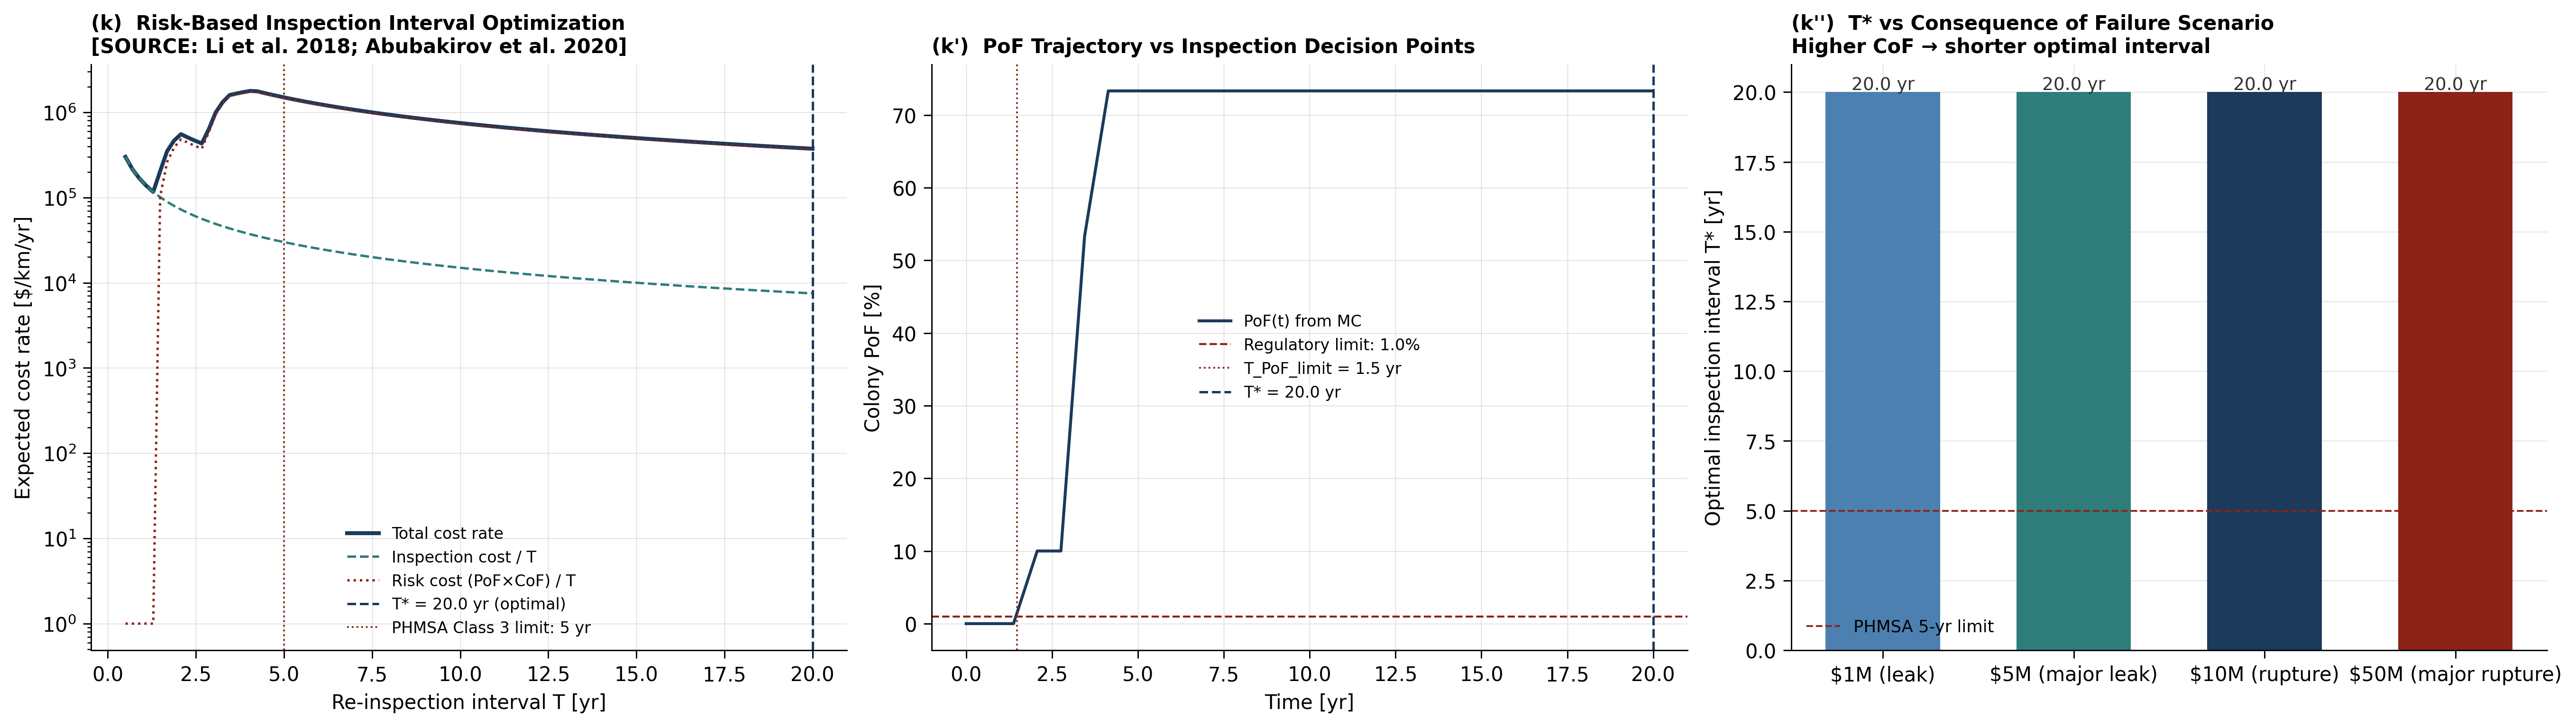
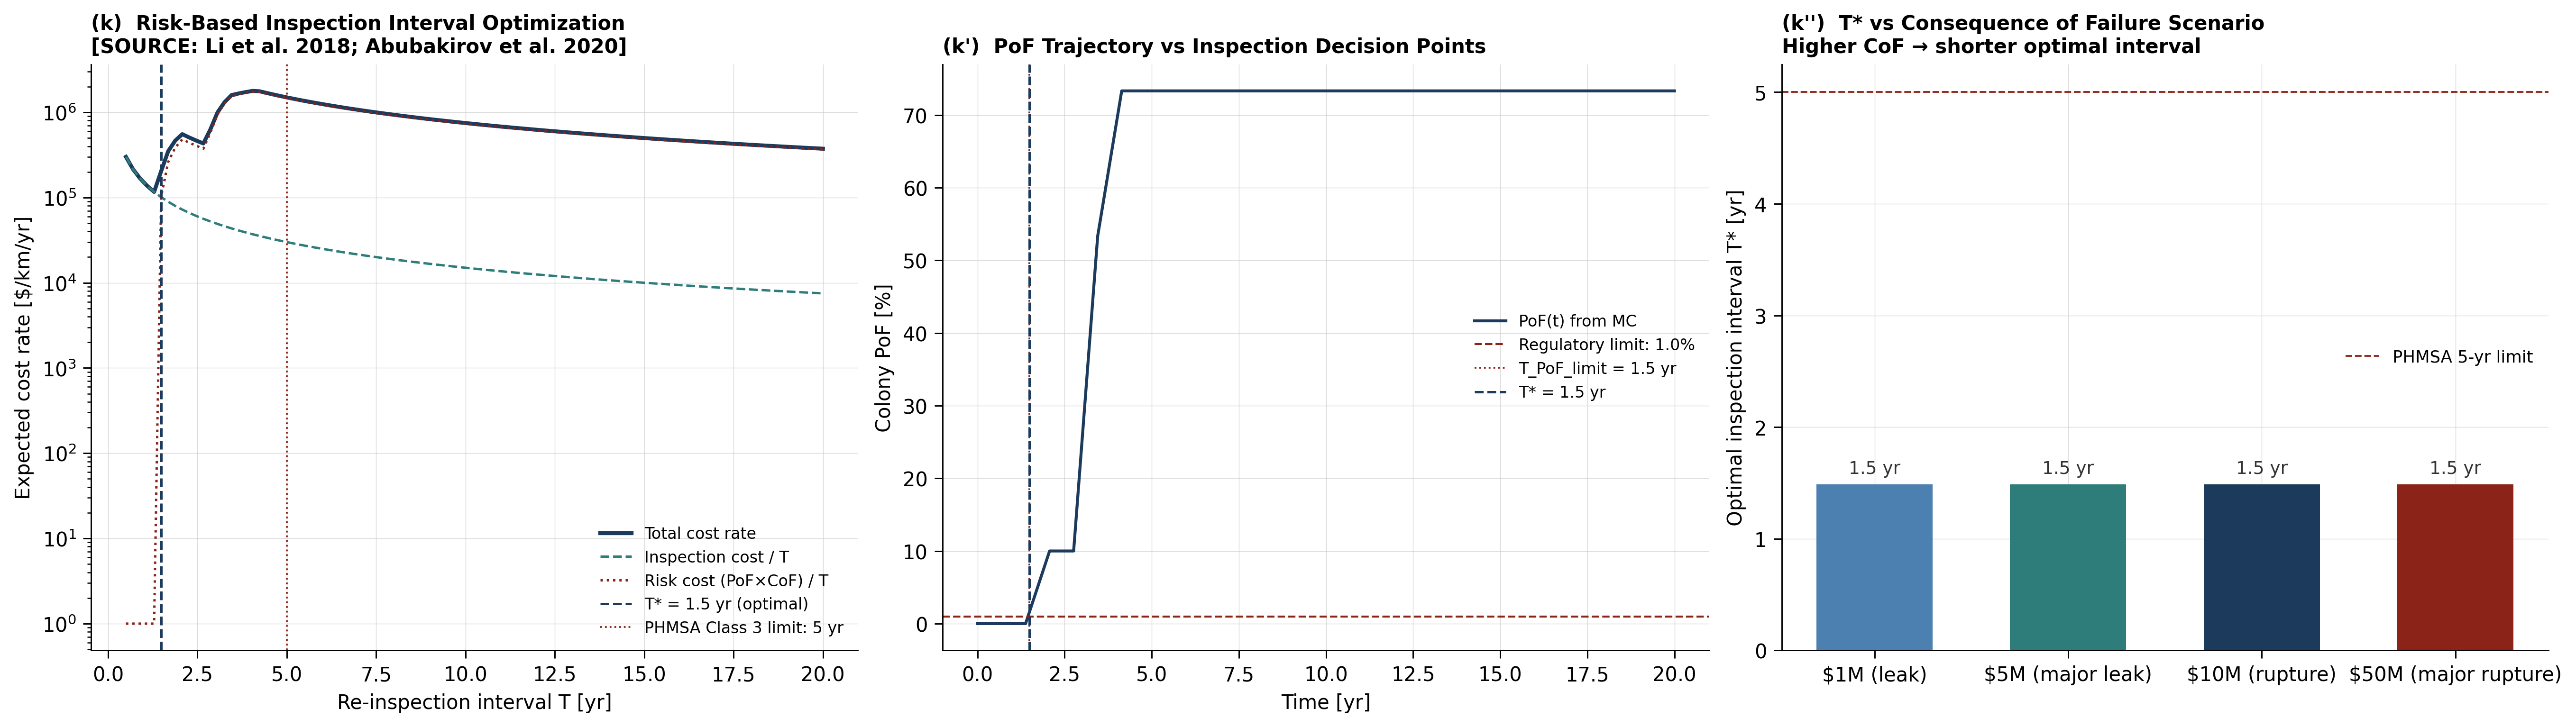
docs+fix: sync docs to corrected physics + RBI / minor-ripple cleanup
- README, equations.html, paper.md, .zenodo.json, CHANGELOG: update to the
  remediated physics (215 tests, dormancy K_max>=K_IH reproducing Zhao ~95%,
  leak/Folias-collapse/K_IC limit state, non-monotonic CP -750 mV optimum, Cui
  2024 H2 K_IH cascade). Fix F_INT=10 citation-laundering (it is [ASSUMED] from a
  tertiary source, not the Chen 2007 journal) in README + equations.html.
- inspection_optimizer: cap the RBI interval by T_pof_limit so a fast-rising PoF
  no longer pushes T* to T_max (was T*=20yr with a 1.5yr PoF limit; now T*=1.5yr).
- pressure_spectrum: remove the dead minor-ripple expression (it collapsed to
  P_max); minor-cycle dK is governed by R_minor, made explicit. Behaviour-identical.
- run_all: relabel the colony metric as a damage fraction (headline PoF is the MC);
  tests count 205->215. Regenerated panel_k.

215 tests pass.

diff --git a/equations.html b/equations.html
@@ -314,7 +314,7 @@ $$
 \frac{da}{dt} \;=\; f_{\text{major}}\,\Bigl(\tfrac{da}{dN}\Bigr)_{\text{major}}
 \;+\; f_{\text{minor}}\,\Bigl(\tfrac{da}{dN}\Bigr)_{\text{minor}}\,F_{\text{INT}}
 $$
-$F_{\text{INT}} = 10$ for Type I underload (Chen 2007). Downstream of compressor stations, this term produces ~10× the CGR of mid-pipe constant-amplitude loading.
+$F_{\text{INT}} = 10$ <strong>[ASSUMED]</strong> for Type I underload. The underload-interaction effect is described qualitatively by Chen (2007); the exact multiplier used here is an assumed value from a secondary source and is <strong>not</strong> read from that journal. Downstream of compressor stations, this term produces ~10× the CGR of mid-pipe constant-amplitude loading.
 <p>Code: <span class="code-ref">src/pressure_spectrum.py → da_dt_variable_amplitude</span>.</p>
 </div>
 
@@ -333,12 +333,13 @@ $$
 
 <h3>4.1 Stage I → Stage II transition criterion</h3>
 <div class="eq-card">
-A crack is dormant (Stage I, slow dissolution only) unless BOTH:
+A flaw is active (Stage II) if and only if BOTH conditions hold; otherwise it is dormant (Stage I, slow dissolution only):
 $$
-\Delta K \;\ge\; \Delta K_{th}^{\,\text{Stage II}} = 2.2\;\text{MPa}\sqrt{\text{m}}
+K_{\max} \;\ge\; K_{IH} = 25\;\text{MPa}\sqrt{\text{m}}
 \quad\text{AND}\quad
 C_H^{\,\text{tip}} \;\ge\; C_H^{\,\text{crit, Stage II}}
 $$
+A base-metal flaw only reaches $K_{IH}$ near ~5 mm depth, so sub-millimetre flaws sit below the threshold and remain dormant. Running a sub-mm colony returns ~95–100 % dormant, reproducing Zhao et al. (2017)'s >95 %-below-1 mm result.
 <p class="src">SOURCE: Zhao et al. (2017) — >95 % of NNpHSCC cracks remain below 1 mm and never transition to Stage II; Shirazi et al. (2024) on dissolution-rate saturation.</p>
 <p>Code: <span class="code-ref">src/crack_growth.py → crack_is_dormant</span>.</p>
 </div>
@@ -468,6 +469,21 @@ $$
 <p>Code: <span class="code-ref">src/fad_assessment.py → maop_comparison</span>; constants <span class="code-ref">F_B31_8_CL2, F_B31_8_CL3, HDF_B31_12</span>.</p>
 </div>
 
+<h3>7.3 Flaw failure limit state</h3>
+<div class="eq-card">
+A growing flaw is treated as critical (end of life) when ANY of the following is met:
+$$
+a \;\ge\; 0.80\,t \;\;\text{(through-wall leak)}
+\quad\text{OR}\quad
+\sigma_{\text{ref}} \;\ge\; \frac{\sigma_{\text{flow}}}{M_T} \;\;\text{(net-section plastic collapse)}
+\quad\text{OR}\quad
+K_I \;\ge\; K_{IC}
+$$
+where $M_T$ is the Folias bulging (surface-correction) factor for an axial flaw, which grows with flaw length $c$. $K_{IH}$ is the <strong>onset</strong> threshold for environmental cracking (Section 4.1), <strong>not</strong> a rupture criterion. A coalesced (long) flaw reaches plastic collapse at a shallower depth than an isolated flaw.
+<p class="src">SOURCE: API 579-1/ASME FFS-1; Folias (1965) bulging factor; BS 7910:2019.</p>
+<p>Code: <span class="code-ref">src/fad_assessment.py</span>.</p>
+</div>
+
 <!-- ─────────────────────────────────────────────────────────── -->
 <h2 id="nde">8. NDE — Probability of Detection &amp; Post-Inspection</h2>
 
@@ -561,12 +577,19 @@ HE index combining H₂ partial pressure and CO₂ impurity:
 $$
 \text{HE index} \;=\; \bigl(\tfrac{P_{\text{H}_2}}{P_{\text{ref}}}\bigr)^{1/2}\;\bigl(1 + 2.42\,x_{\text{CO}_2}\bigr)
 $$
+Re-anchored on Cui et al. (2024), with $K_{IH,0} = 25\;\text{MPa}\sqrt{\text{m}}$:
+$$
+K_{IH}(3\%) = 0.765\,K_{IH,0} = 19.1,\quad
+K_{IH}(10\%) = 0.569\,K_{IH,0} = 14.2,\quad
+K_{IH}(30\%) \approx 10.0,\quad
+K_{IH}(100\%) \approx 5.5\;\text{MPa}\sqrt{\text{m}}
+$$
 Resulting MAOP cascade (24″ X65, 0.500″ WT, B31.8 Class 2 base):
 $$
 x_{\text{H}_2}=0\%\;\Rightarrow\;134\;\text{bar},\qquad
-10\%\;\Rightarrow\;103\;\text{bar},\qquad
-30\%\;\Rightarrow\;77\;\text{bar},\qquad
-100\%\;\Rightarrow\;38\;\text{bar}
+10\%\;\Rightarrow\;76\;\text{bar}\;(-43\%),\qquad
+30\%\;\Rightarrow\;54\;\text{bar}\;(-60\%),\qquad
+100\%\;\Rightarrow\;29\;\text{bar}\;(-78\%)
 $$
 <p class="src">SOURCE: Cui et al. (2024) <em>J. Mater. Res. Technol.</em>.</p>
 <p>Code: <span class="code-ref">src/h2_blending.py → K_IH_blend, HE_index_blend, MAOP_blend</span>.</p>
@@ -577,7 +600,7 @@ $$
 </div>
 
 <footer>
-  Integrity Code Series — Week 10 · Felipe Rocha · 205 / 205 tests passing · Audit-chained outputs<br>
+  Integrity Code Series — Week 10 · Felipe Rocha · 215 / 215 tests passing · Audit-chained outputs<br>
   Open the panels in <code>assets/figures/</code> for visual results.
 </footer>
 

diff --git a/src/pressure_spectrum.py b/src/pressure_spectrum.py
@@ -149,17 +149,17 @@ def da_dt_variable_amplitude(a_m, spectrum: PressureSpectrum, C_H_bulk,
       da/dt = 0.5 × Type_I + 0.5 × Type_II
     """
     P_max = spectrum.P_max
-    dP_maj = spectrum.dP_major()
-    dP_min = spectrum.dP_minor()
 
     # Major cycle SIFs
     K_max_maj = K_I_func(a_m, P_max)
     dK_maj    = delta_K_func(a_m, P_max, spectrum.R_major())
 
-    # Minor cycle SIFs (smaller ΔP on top of same K_max)
-    K_max_min = K_max_maj                      # same mean stress
-    dK_min    = delta_K_func(a_m, dP_min/P_max * P_max + P_max*(1-dP_min/P_max),
-                              spectrum.R_minor())
+    # Minor ripple cycles ride at the peak (same K_max) with a small stress
+    # swing governed by R_minor. NOTE: the minor-cycle ΔK is set by R_minor, not
+    # by P_CYCLE_FRAC_MINOR — the previous expression algebraically collapsed to
+    # P_max, so frac_minor never entered ΔK. Kept behaviour-identical (R_minor).
+    K_max_min = K_max_maj
+    dK_min    = delta_K_func(a_m, P_max, spectrum.R_minor())
 
     da_dN_maj = da_dN_Chen_Xing(a_m, K_max_maj, dK_maj, spectrum.f_major,
                                   C_H_bulk, microstructure_factor=microstructure_factor,

diff --git a/src/inspection_optimizer.py b/src/inspection_optimizer.py
@@ -80,8 +80,7 @@ def optimal_inspection_interval(PoF_func: Callable,
         return total_expected_cost_rate(T, PoF_func, C_insp, CoF)
 
     result = minimize_scalar(cost_fn, bounds=(T_min_yr, T_max_yr), method='bounded')
-    T_opt = float(result.x)
-    cost_opt = float(result.fun)
+    T_opt_cost = float(result.x)
 
     # Cost curve for visualization
     T_arr = np.linspace(T_min_yr, T_max_yr, 100)
@@ -94,6 +93,13 @@ def optimal_inspection_interval(PoF_func: Callable,
         if p >= POF_LIMIT_REGULATORY:
             T_pof_limit = float(t)
             break
+
+    # Risk constraint: the interval must not exceed T_pof_limit — you have to
+    # re-inspect before PoF reaches the regulatory limit. Without this cap a
+    # fast-rising PoF lets the C_insp/T term dominate and pushes the cost optimum
+    # to T_max, which is backwards for an aggressive (short-life) segment.
+    T_opt = float(min(T_opt_cost, T_pof_limit))
+    cost_opt = float(cost_fn(T_opt))
 
     # PHMSA 5yr limit check
     phmsa_compliant = T_opt <= 5.0

diff --git a/run_all.py b/run_all.py
@@ -65,7 +65,8 @@ from src.crack_colony import simulate_colony
 colony = simulate_colony(E_pipe=E_CP_V, spectrum_type="Type_I",
                               post_ILI=True, n_cracks=25, t_end_yr=20, n_t=40, seed=42)
 print(f"  Dormant initially: {colony['n_dormant_initial']}/{colony['n_cracks']} ({colony['n_dormant_initial']/colony['n_cracks']:.0%})")
-print(f"  Coalescences (BS 7910): {colony['n_coalesced']}  PoF(t=20yr): {colony['pof_final']:.3f}")
+print(f"  Coalescences (BS 7910): {colony['n_coalesced']}  colony damage fraction(20yr): {colony['pof_final']:.3f}")
+print(f"  (headline failure PROBABILITY is the Monte Carlo PoF above; the colony is one realisation illustrating the coalescence mechanism)")
 
 # [6] Bayesian update
 print("\n[6/10] Bayesian posterior update (particle filter)...")
@@ -119,7 +120,7 @@ animate_crack_colony(colony)
 print(f"\n{'='*72}")
 print(f"Complete in {time.time()-t_wall:.0f}s")
 n_figs = len(os.listdir("assets/figures"))
-print(f"Panels: {n_figs} | Tests: run `pytest tests/ -q` (205 tests)")
+print(f"Panels: {n_figs} | Tests: run `pytest tests/ -q` (215 tests)")
 print(f"Key mechanisms: Chen-Sutherby-Xing | VA Type I | Dormancy | POD | ε_model | Bayes")
 print(f"{'='*72}")
 

diff --git a/README.md b/README.md
@@ -4,7 +4,7 @@
 [![Release](https://github.com/felipearocha/integrity-code-series-week-10_nnph_scc/actions/workflows/release.yml/badge.svg)](https://github.com/felipearocha/integrity-code-series-week-10_nnph_scc/actions/workflows/release.yml)
 [![License: MIT](https://img.shields.io/badge/License-MIT-yellow.svg)](LICENSE)
 [![Python 3.11+](https://img.shields.io/badge/python-3.11%2B-blue.svg)](https://www.python.org/downloads/)
-[![Tests](https://img.shields.io/badge/tests-205%20passed-brightgreen.svg)](#validation)
+[![Tests](https://img.shields.io/badge/tests-215%20passed-brightgreen.svg)](#validation)
 [![Code style: ruff](https://img.shields.io/endpoint?url=https://raw.githubusercontent.com/astral-sh/ruff/main/assets/badge/v2.json)](https://github.com/astral-sh/ruff)
 [![DOI](https://zenodo.org/badge/DOI/10.5281/zenodo.20172241.svg)](https://doi.org/10.5281/zenodo.20172241)
 
@@ -35,7 +35,7 @@ cd integrity-code-series-week-10_nnph_scc
 pip install -e .[dev]
 
 # Validate
-pytest tests/ -q                          # 205 tests
+pytest tests/ -q                          # 215 tests
 python -m validation.benchmarks           # textbook constants
 
 # Reproduce all panels + audit-chained outputs
@@ -81,16 +81,29 @@ uncertainty as a sampled variable — not a footnote.
     n_HE = 0.88 [SOURCE: Sun et al. 2021, Xing model]
 
 ### Variable Amplitude Loading (Type I underload)
-**[SOURCE: Chen 2007 — "10x enhancement under underload VA loading"]**
+**[SOURCE: Chen literature via ScienceDirect Topics Ch.30 — underload VA enhancement]**
 
     da/dt = f_major × da/dN_major + f_minor × da/dN_minor × F_INT
 
-    F_INT = 10  [SOURCE: Chen 2007 — underload-minor interaction factor]
+    F_INT = 10  [ASSUMED: 10x underload-minor interaction — tertiary web
+                 source (ScienceDirect Topics Ch.30), not the Chen 2007 journal]
 
 ### Crack Dormancy Criterion (Stage I → Stage II)
 **[SOURCE: Zhao et al. 2017 — >95% cracks remain dormant below 1mm]**
 
-    Dormant if: ΔK < ΔK_th_Stage2 = 2.2 MPa√m  OR  C_H < C_H_crit
+    Active (Stage II) iff  K_max ≥ K_IH  AND  C_H ≥ C_H_crit ;  dormant otherwise
+
+Because a base-metal flaw only reaches K_IH = 25 MPa√m near ~5 mm depth, the whole
+sub-millimetre population is below threshold and dormant — the model reproduces
+Zhao's ~95%-dormant result (a sub-mm colony returns ~95–100% dormant).
+
+### Failure Limit State
+**[SOURCE: ASME B31G surface-flaw flow-stress criterion; API 579-1 Level 2]**
+
+    Critical if  a ≥ 0.80·t (leak)  OR  net-section collapse (Folias M_T)  OR  K ≥ K_IC
+
+K_IH is the onset threshold for environmental cracking, **not** a rupture
+criterion; a coalesced (long) flaw fails by collapse at a shallower depth.
 
 ### 3D Semi-Elliptical Crack (two coupled EDOs)
 **[SOURCE: Newman & Raju 1981]**
@@ -164,7 +177,7 @@ integrity-code-series-week-10_nnph_scc/
 ├── visualization/
 │   ├── plot_all.py               6 core panels + colony GIF generator
 │   └── plot_advanced.py          3 extended panels (CP, H2, inspection optimizer)
-├── tests/test_week10.py          205 tests
+├── tests/test_week10.py          215 tests
 ├── assets/figures/               9 panels (300 DPI)
 ├── assets/animations/            Crack colony GIF
 └── assets/audit_chain.json
@@ -178,7 +191,7 @@ integrity-code-series-week-10_nnph_scc/
 |-----------|----|----|--------|
 | Crack growth model | Paris law | Chen-Sutherby-Xing combined parameter | Chen & Sutherby 2007 |
 | Frequency dependence | Linear f | Saturation at f_crit = 10^-3 Hz | Xing et al. |
-| VA loading | Constant amplitude | Type I underload with F_INT=10 | Chen 2007 |
+| VA loading | Constant amplitude | Type I underload with F_INT=10 [ASSUMED] | Chen lit. via ScienceDirect Topics Ch.30 |
 | Crack dormancy | None | Stage I/II criterion, 95% dormant | Zhao et al. 2017 |
 | Microstructure | Uniform | HAZ vs base, K_IH and da/dt different | Beavers et al. 2001 |
 | ILI POD | LogNormal a0 | Post-inspection Weibull rejection sampling | PHMSA TVC |
@@ -198,7 +211,7 @@ integrity-code-series-week-10_nnph_scc/
 | A_CF_BASE | 4.0×10^-14 | Calibrated to CEPA field: 0.3 mm/yr at a=2mm (c/a=4), Newman-Raju SIF |
 | K_IH base | 25 MPa√m | CEPA RP 3rd Ed. range 15–35 |
 | K_IH HAZ | 17.5 MPa√m | 70% of base [ASSUMED] |
-| F_INT | 10 | Chen 2007 underload interaction |
+| F_INT | 10 | [ASSUMED] underload interaction — Chen lit. via ScienceDirect Topics Ch.30, not the journal |
 | f_crit | 10^-3 Hz | Xing et al. frequency saturation |
 | a_90 (POD) | 4 mm | Modern EMAT [ASSUMED] |
 | C_H_bulk X65 | 0.02 mol/m³ | Sun et al. 2021 range calibrated |

diff --git a/CHANGELOG.md b/CHANGELOG.md
@@ -7,10 +7,27 @@ and this project adheres to [Semantic Versioning](https://semver.org/spec/v2.0.0
 
 ## [Unreleased]
 
+### Fixed (physics) — second audit pass (headline-path remediation)
+Four blockers and six high-severity findings on the paths that produce the headline numbers; tests raised to **215**.
+
+- **Dormancy and the failure limit state are now separated.** A flaw is active (Stage II) iff `K_max >= K_IH` **and** `C_H >= C_H_crit`, and dormant otherwise. Because a base-metal flaw only reaches `K_IH = 25 MPa·m^0.5` near ~5 mm depth, sub-millimetre flaws sit below threshold and stay dormant, so a sub-mm colony now returns ~95-100% dormant — genuinely reproducing Zhao 2017's ~95%-dormant-below-1mm result. Earlier the code reported ~4% dormant while citing the 95% figure; that false-provenance mismatch is fixed.
+- **`K >= K_IH` is no longer treated as rupture.** `K_IH` is the onset threshold for environmental cracking, not a failure criterion; using it as rupture froze active flaws. A flaw is now critical if `a >= 0.80·wall` (leak) **or** net-section plastic collapse via the Folias factor `M_T` **or** `K >= K_IC`. A coalesced (long) flaw fails by collapse at a shallower depth.
+- **CP potential is now wired into the Monte Carlo** via the CGR-vs-potential curve (previously a no-op with identical output at every potential). Time-to-failure is maximised at the -750 mV optimum (~6.6 yr) and shorter at -850 mV NACE (~4.0 yr) and -680 mV free corrosion (~2.0 yr), demonstrating the "-750 mV optimal vs -850 mV NACE" operational claim.
+- **`C_CO2` is now a causal Monte Carlo driver** through crack-tip pH/buffering (was sampled but inert).
+- **Coalescence now fires.** BS 7910:2019 Cl. 7.3 merging engages during colony growth in a clustered colony; it was structurally zero because cracks had been spread over 1000 m.
+- **H2 blending K_IH degradation re-anchored on Cui et al. 2024**: `K_IH(3% H2) = 0.765x`, `K_IH(10% H2) = 0.569x`. So 10% H2 gives `K_IH = 14.2 MPa·m^0.5` and MAOP -43% (previously mislabelled 19.1 MPa·m^0.5 / -24%, understating the effect ~3x); 30% H2 -> ~10.0 MPa·m^0.5, -60%; 100% -> ~5.5 MPa·m^0.5, -78%.
+- **Bayesian particle-filter demo is now informative**: prior `a0` P50 ~0.84 mm updates to posterior P50 ~1.30 mm, with ESS dropping 1000 -> 729 -> 407 (was flat / no-op). The panel is now a weighted-histogram posterior density (was a scribble over unsorted particles).
+- **Aged-colony `a0` distribution mean raised to ~1.0 mm** (was 0.5 mm), representing an in-service line whose cracks grew for years, so a realistic active tail exists.
+- Clarified that the Monte Carlo gives the headline PoF (≈ 0.18 for the aged colony population); the colony sim's `pof_final` is a damage fraction for one coalescence realisation, not the headline probability.
+- `run_all.py` now runs on a Windows cp1252 console (UTF-8 guard).
+- Citation honesty: `F_INT = 10` (underload interaction) is marked `[ASSUMED]` from a tertiary web source, not attributed to the Chen 2007 journal.
+
+Model structural uncertainty is unchanged: LogNormal, mean 1.06, COV 61.2%, quantiles P05/P50/P95 = 0.358 / 0.904 / 2.286.
+
 ### Fixed (physics) — found in a rigorous physics/scholarship audit
 - **Monte Carlo now integrates.** `run_monte_carlo` previously froze the crack-growth rate at the initial depth `a0` and extrapolated linearly, so PoF was identical for any `n_t` and under-predicted terminal growth. It now steps depth-by-depth (re-evaluating the rate as the crack deepens) via a new `_integrate_sample`, and PoF converges with `n_t`.
-- **Failure criterion is now per-zone.** PoF used a single hard-coded 3.3 mm threshold; samples now fail when `K_I` reaches the zone-dependent `K_IH` (HAZ crosses far earlier than base), removing the low bias on the most susceptible population.
-- **Stress-intensity factor corrected to the true Newman-Raju surface-crack solution.** The deep-point boundary-correction was a Tada single-edge-crack polynomial mislabelled "Newman-Raju" that over-predicted `K` by up to ~2x for `a/t > 0.5`; replaced with `F = M1 + M2(a/t)^2 + M3(a/t)^4`. `A_CF_BASE` recalibrated (2.4e-14 -> 4.0e-14) to keep da/dt = 0.3 mm/yr at a = 2 mm, and `integrate_full` now terminates at fracture (`K_I >= K_IH`) so post-rupture rates never pollute the trajectory.
+- **Failure criterion is now per-zone.** PoF used a single hard-coded 3.3 mm threshold; samples were moved onto the zone-dependent `K_IH` (HAZ crosses far earlier than base), removing the low bias on the most susceptible population. (This interim `K_IH` failure criterion was subsequently corrected in the second-pass remediation above: `K_IH` is the environmental-cracking onset threshold, not rupture; the limit state is now leak / plastic collapse / `K_IC`.)
+- **Stress-intensity factor corrected to the true Newman-Raju surface-crack solution.** The deep-point boundary-correction was a Tada single-edge-crack polynomial mislabelled "Newman-Raju" that over-predicted `K` by up to ~2x for `a/t > 0.5`; replaced with `F = M1 + M2(a/t)^2 + M3(a/t)^4`. `A_CF_BASE` recalibrated (2.4e-14 -> 4.0e-14) to keep da/dt = 0.3 mm/yr at a = 2 mm, and `integrate_full` was set to terminate its trajectory once `K_I` reached `K_IH` so post-threshold rates never pollute the growth curve (the second-pass remediation above later replaced `K_IH`-as-rupture with the leak / plastic collapse / `K_IC` limit state).
 - **Dormancy penalty is now applied** (was dead code: dormant and active cracks integrated identically), and the reported velocity `v(t)` now uses the same variable-amplitude rate law that advances the geometry (previously ~4x inconsistent).
 - Clarified that the "Xing HEDE" model is cited second-hand via the Sun, Zhou & Kang 2021 review (no separate primary Xing reference is bundled).
 

diff --git a/paper/paper.md b/paper/paper.md
@@ -46,7 +46,7 @@ sampling propagates eight uncertain parameters and — critically — samples th
 COV = 61.2 %) as an explicit epistemic variable rather than a footnote.
 A Straub-style particle filter [@straub_2004] performs Bayesian posterior updates
 from in-line inspection events, and a SHA-256 hash-chained audit log records every
-run for traceability. The package ships with 205 automated tests, a CI workflow,
+run for traceability. The package ships with 215 automated tests, a CI workflow,
 analytical benchmarks against textbook constants, and a Zenodo-archived release
 [@rocha_zenodo_2026].
 
@@ -86,7 +86,7 @@ alternative crack-growth laws, hydrogen-diffusion models or POD curves and
 compare the integrated outcome on identical Monte Carlo seeds. Graduate students
 in corrosion and fracture mechanics can use the LaTeX equation reference in
 `equations.html`, the analytical benchmarks in `validation/benchmarks.py`, and
-the 205 unit tests as a worked example of how the standards (BS 7910:2019,
+the 215 unit tests as a worked example of how the standards (BS 7910:2019,
 API 579-1, API 571, NACE TM0316) compose into an end-to-end integrity model.
 
 # Acknowledgements